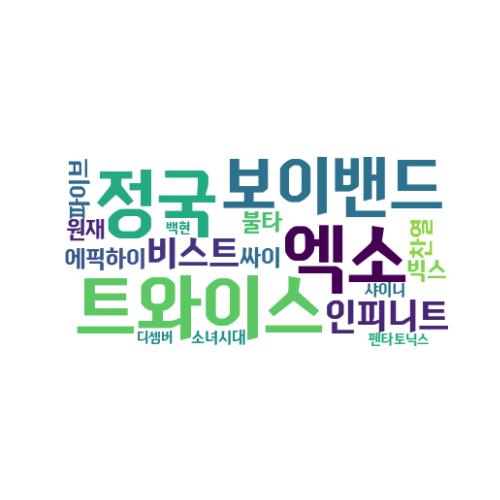
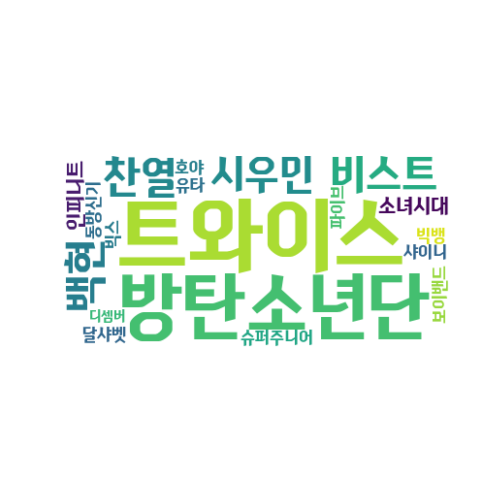
merge

Changed region(s): [[0.12, 0.3, 0.9, 0.69]]

diff --git a/src/templates/Doc2vec.html b/src/templates/Doc2vec.html
@@ -1,16 +1,20 @@
 <html>
 <meta http-equiv="Content-Type" content="text/html; charset=utf-8" />
-<body bgcolor="#FFFFFF">
+
+<header>
+   </br>
+   <center><img src="{{url_for('static',filename='image/title.png/')}}" style="width:500px"></center>
+   </br>
+</header>
+<body background="{{url_for('static',filename='image/bg.png/')}}" style="background-repeat:repeat-x; background-size:300px">
    <center>
-   </br>
-   <!--<font size=6><center> Doc2Vec Demo </center></font>-->
-   </br>
    <ul>
-   <h2> 키워드를 입력하세요</h2>
+
    <form action = "http://0.0.0.0:5000/doc2vec" method = "post" accept-charset="utf-8">
-   <p><input type="text" size = 40  style="height:30px;" name= "get_text";/>
+   <p><br><br>사용자의 검색 키워드를 입력받아 연관 관계가 있는 키워드를 추천해주는 시스템입니다.<br><br><input type="text" size = 40  style="height:30px;" name= "get_text";/>
    <input type="submit" value="입력"/></p>
    </form>
+   <img src='/static/image/GG.png' style="object-fit:cover; width:600px; height:550px; display: block;">
 </br>
 
    <h4>Recommand Keyword</h4>

diff --git a/src/Doc2vec1.py b/src/Doc2vec1.py
@@ -1,6 +1,5 @@
 #-*- coding: utf-8 -*-
 from flask_restful import Resource,Api
-from flask.ext.cache import Cache
 from flask import Flask, redirect, url_for, request, render_template,send_file
 import json
 from flask_jsonpify import jsonify
@@ -9,44 +8,27 @@ import sys
 import imp
 import matplotlib.pyplot as plt
 from wordcloud import WordCloud
-import random
 imp.reload(sys)
 
 app = Flask(__name__)
-app.config['SEND_FILE_MAX_AGE_DEFAULT']= 0
-app.config["CACHE_TYPE"] = "null"
 
 @app.route('/success/<text>')
 def success_doc2vec(text):
-      cache = Cache()
       model = gensim.models.Doc2Vec.load("/Users/seungeonlee/Desktop/capstone/2018-cap1-23/src/model/doc2vec.model")
+
       result = model.most_similar(text.strip(),topn=10)
-      result2 = model.most_similar(text.strip(),topn=20)
+      # wordcloud = WordCloud().generate(text)  #test 중 
+      # wordcloud.words_
+      # plt.figure(figsize=(5,5))
+      # plt.imshow(wordcloud, interpolation='bilinear')
+      # fig = plt.gcf()
+      # fig.savefig('/home/nlpserver/Desktop/Lee/2018-cap1-23/src/static/image/GG.png')
       output = []
       for i in range(len(result)):
             output.append(result[i][0])
       text = ""
       for i in range(len(output)):
-            text += output[i] + " "
-      word = open('word.txt','w')
-
-      for i in result2:
-            word.write('\"'+i[0]+'\":'+str(i[1])+"\n")
-      word.close()
-      mylist = open('word.txt').read()
-      
-      wordcloud = WordCloud(background_color='white',font_path ="/NEXON Football Gothic B.otf").generate(mylist)
-      wordcloud.words_
-      plt.figure(figsize=(5,5))
-      plt.imshow(wordcloud, interpolation='bilinear')
-      plt.axis("off")
-      fig = plt.gcf()
-
-      image_num = random.randrange(1,100)
-      image_name = "/static/image/"+str(image_num)+".png"
-      print(image_name)
-      fig.savefig('/Users/seungeonlee/Desktop/capstone/2018-cap1-23/src/static/image/GG.png') 
-
+            text += output[i] + ", "
       return redirect(url_for("_html", result=text))
 
 @app.route('/doc2vec', methods = ['POST','GET'])
@@ -65,13 +47,6 @@ def get_text():
 @app.route('/<result>')
 def _html(result = ""):
 	return render_template('Doc2vec.html',result=result)
-@app.after_request
-def add_header(response):
-      response.headers['Cache-Control'] = 'no-store, no-cache, must-reavlidate, post-check=0, pre-check=0, max-age=0'
-      response.headers['Pragma'] = 'no-cache'
-      response.headers['Expires'] = '-1'
-      return response
-
        
 if __name__ == '__main__' :
        app.run(host='0.0.0.0',debug=True)
